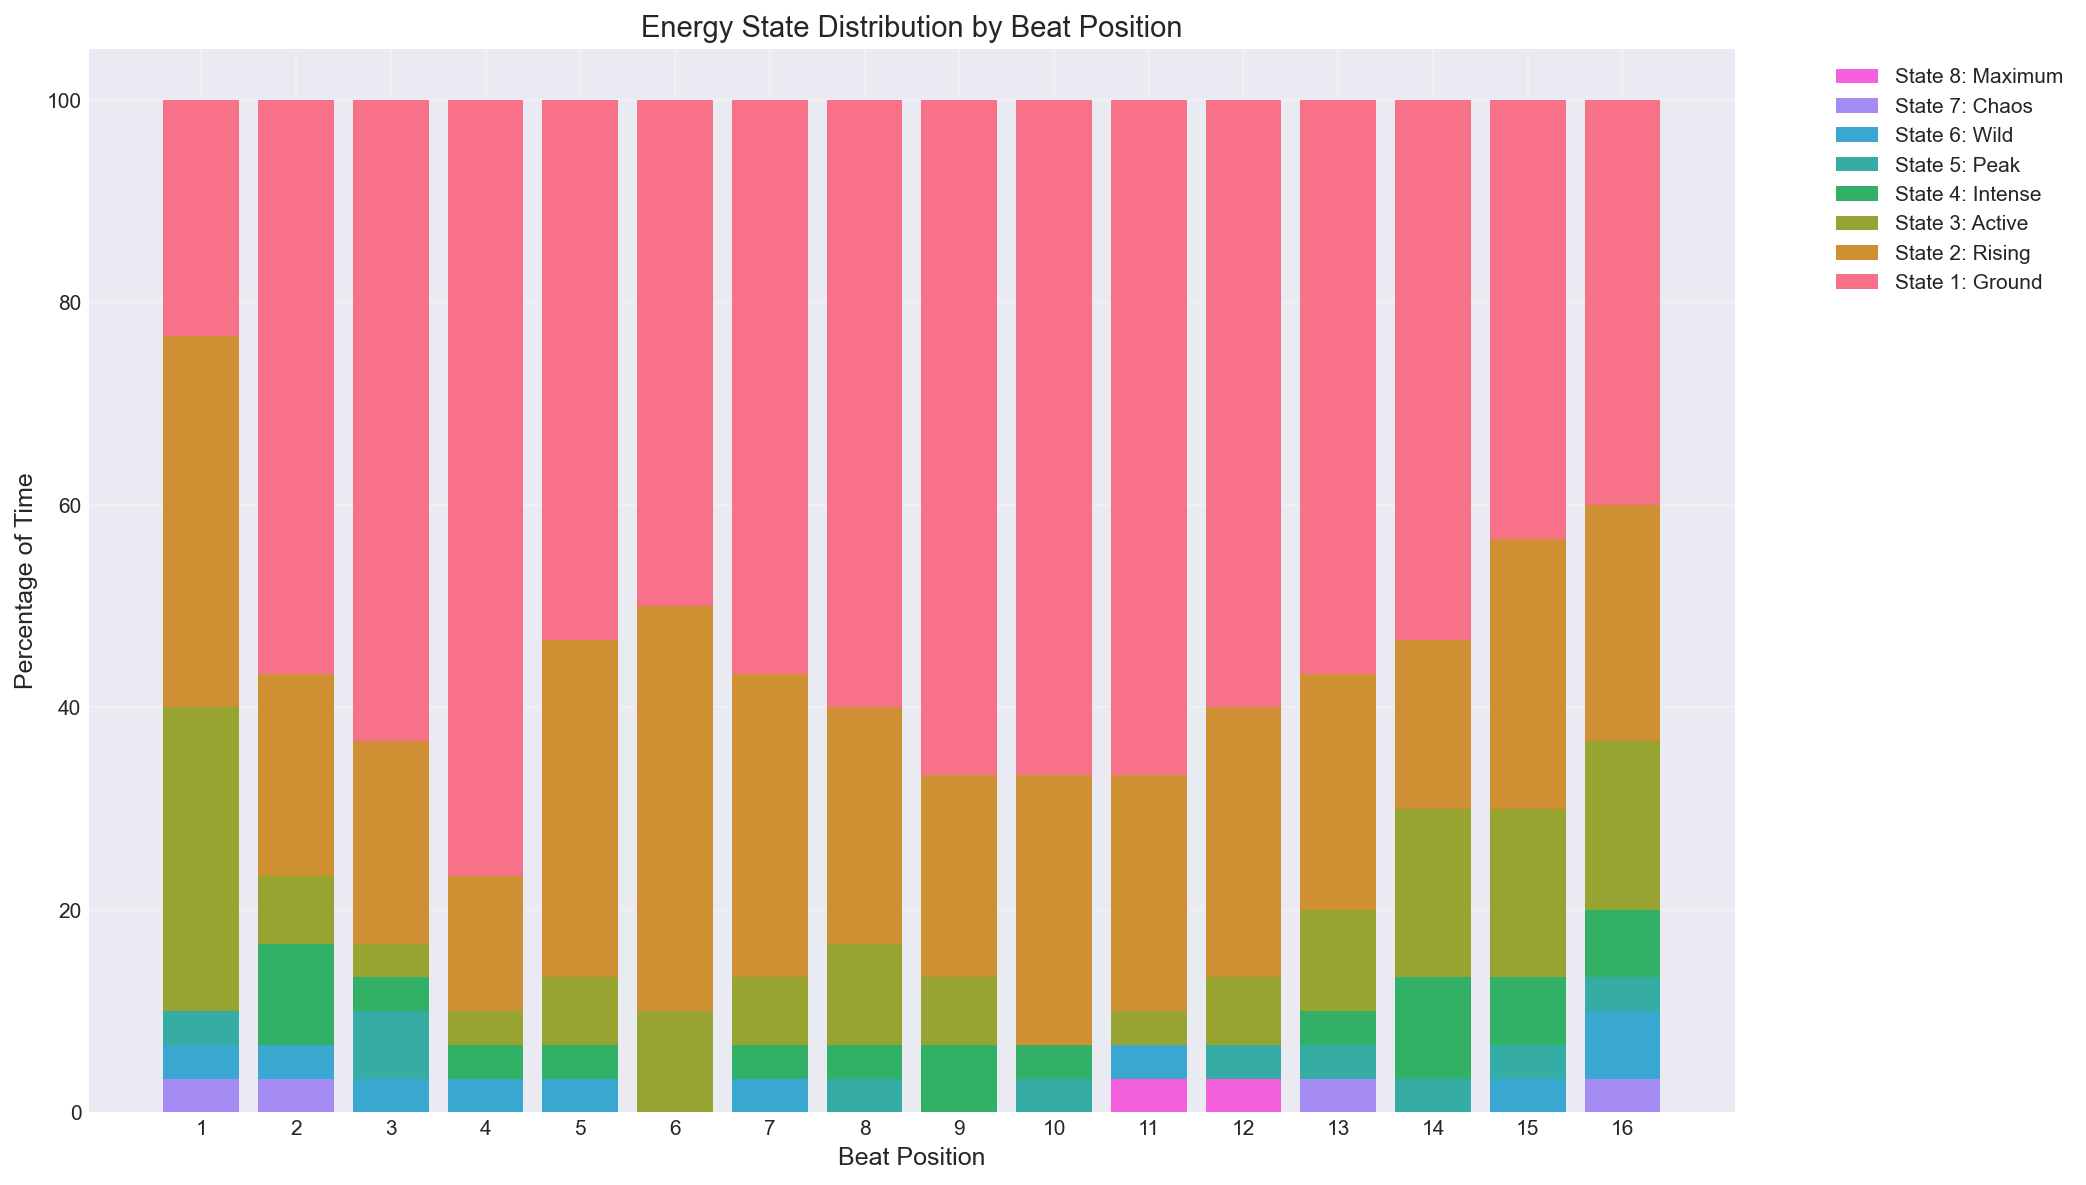
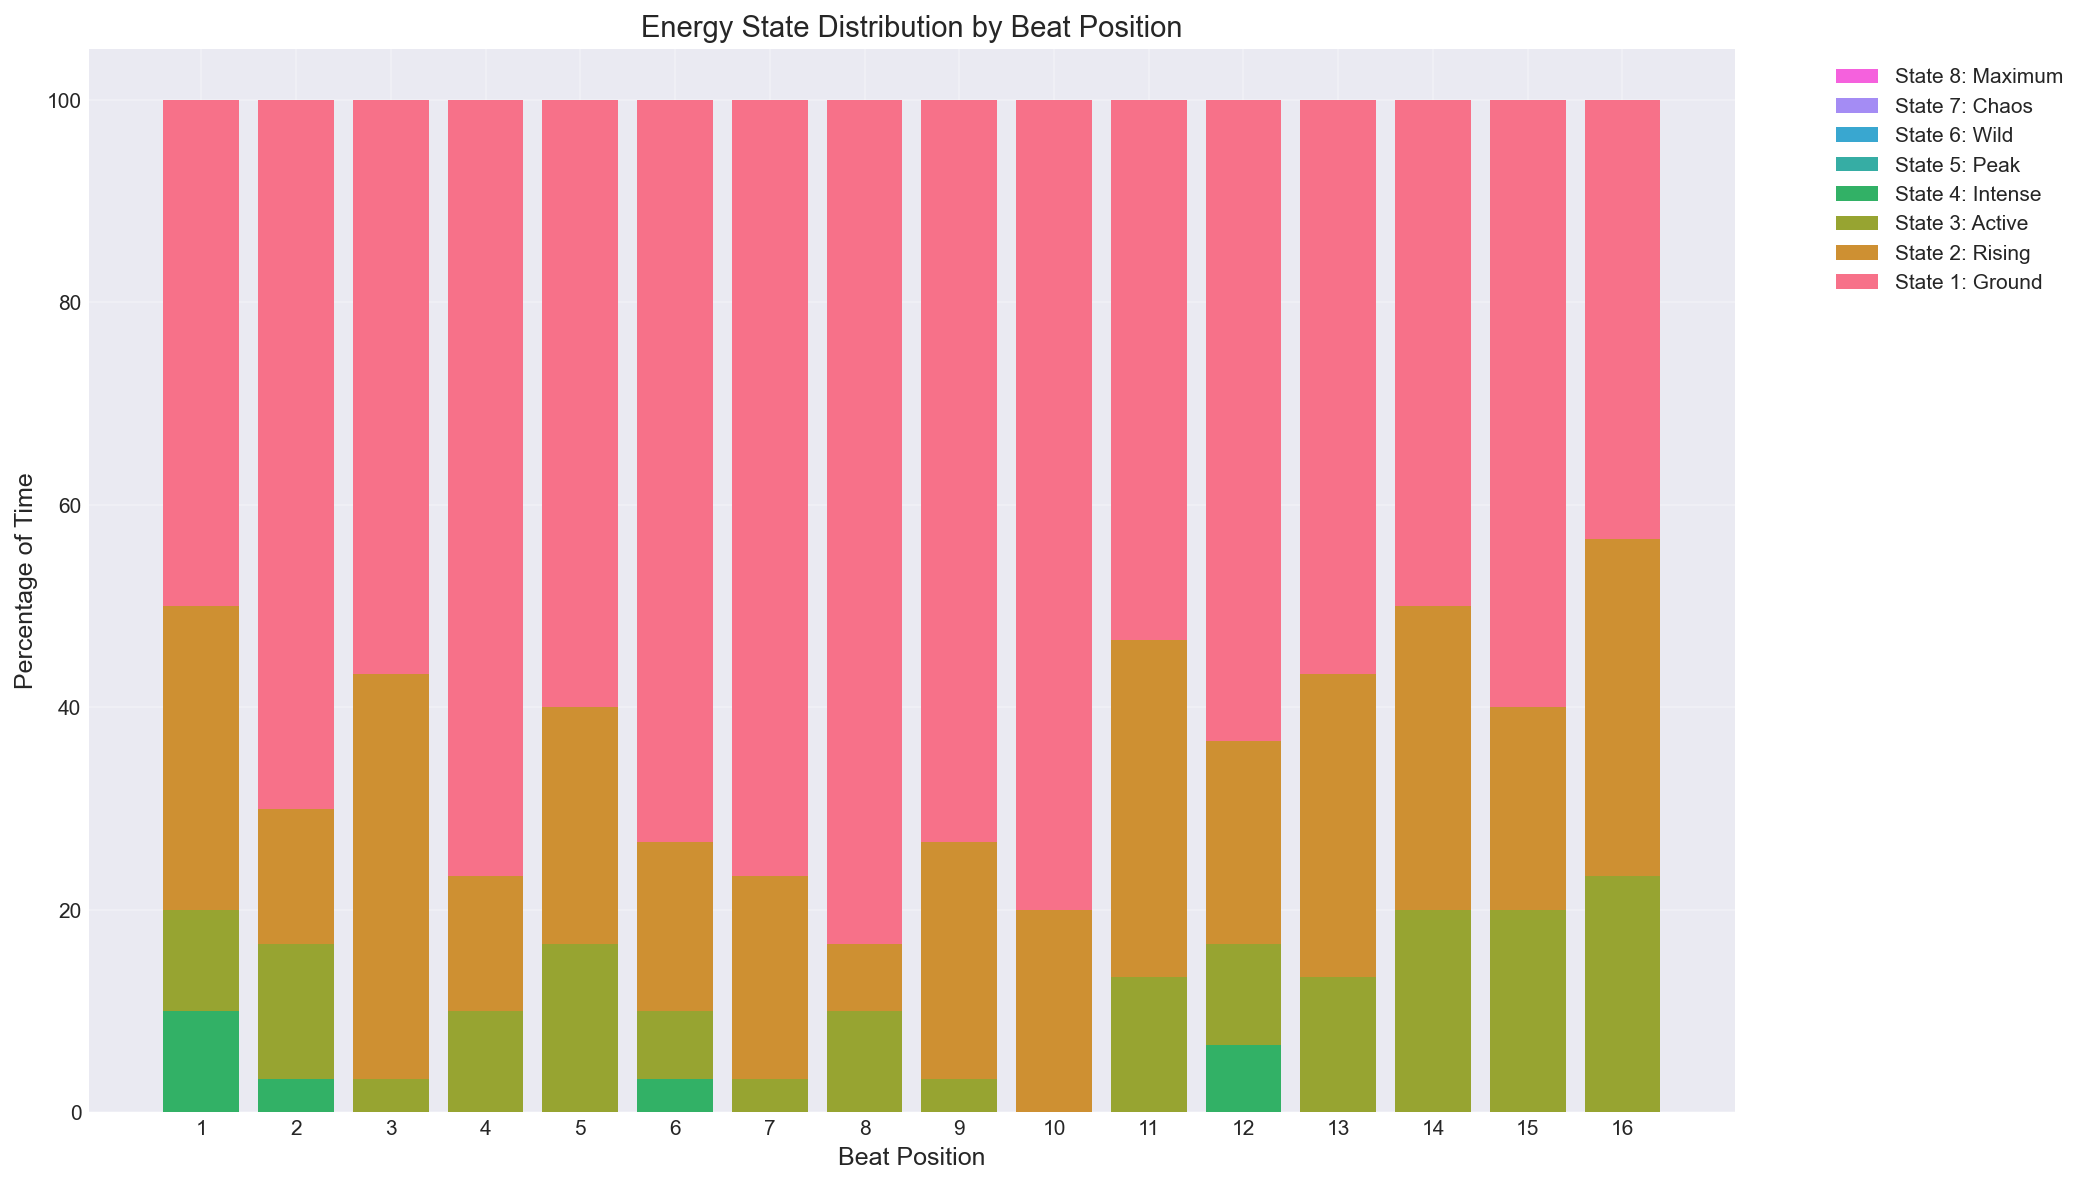
Update blog post 009 with new simulation data using integer-based config
- Updated state distribution stats (59.9% Ground state)
- New transition matrix visualization with normalized integers
- Updated beat distribution analysis
- Revised drum distribution (very hi-hat limited)
- Added insights about integer-based configuration

🤖 Generated with [Claude Code](https://claude.ai/code)

diff --git a/app/posts/0009.md b/app/posts/0009.md
@@ -3,20 +3,24 @@ title: Analyzing Generative Drum Pattern Behavior Through Data Science
 date: 2025-09-28
 ---
 
-I've been developing a quantum drum visualizer that uses energy states to generate rhythmic patterns. I'm using data science to verify the system behaves as designed. Here's what I found from analyzing a 60-second simulation.
-
-## State Distribution Analysis
+I've been developing a quantum drum visualizer that uses energy states to generate rhythmic patterns. On the left is a screen shot of the application. On the right is a state transition diagram showing the probabilities of transitioning between different energy states.
 
 <div style="display: flex; align-items: center;">
     <img src="/the-app.png" alt="Quantum Drum Visualizer" style="width: 30%; margin-right: 16px;" />
     <img src="/bohm_transitions.png" alt="State Transitions" style="width: 30%;" />
 </div>
 
-Running a simulation with basic anchor patterns (kick on 1 & 3, snare on 2 & 4), the transition matrix clearly shows higher probabilities for staying in or returning to lower states. The actual distribution confirmed this design:
+## State Distribution Analysis
 
-- **Ground State**: 38.9% of all notes played
-- **Maximum state**: Only 2.9% of the time
-- **258 state transitions** in 60 seconds - over 4 changes per second
+I'm using data science to verify the system behaves as designed. Here's what I found from analyzing a 60-second simulation.
+
+Running a 60-second simulation, the transition matrix clearly shows higher probabilities for staying in or returning to lower states. The actual distribution confirmed this design:
+
+- **Ground State**: 59.9% of all notes played
+- **Rising State**: 17.5% of notes
+- **Active State**: 17.5% of notes
+- **Intense State**: 5.1% of notes
+- **237 state transitions** in 60 seconds - 3.9 changes per second
 
 This gravity toward lower states was intentional - the transition matrix was designed to create this behavior for musical coherence.
 
@@ -26,38 +30,39 @@ This gravity toward lower states was intentional - the transition matrix was des
 
 The beat distribution shows which energy states were active at each beat position throughout the 60-second simulation:
 
-- **Beat 1** shows the most state diversity (only 23% Ground state, significant Rising/Active/Intense presence)
-- **Beats 2-14** are predominantly Ground state (50-77% of the time)
-- **Beats 15-16** show increased state diversity again (40% Ground, with more Rising/Active states)
+- **Beats 1-10** are heavily dominated by Ground state (50-83% of the time)
+- **Beats 11-16** show slightly more diversity but still Ground state dominant (43-60%)
+- **Beat 16** shows the most state diversity (43% Ground, more Rising/Active presence)
 
-The pattern shows that the system spent most of its time in Ground state across most beat positions, which aligns with the overall 38.9% Ground state distribution and the gravity toward lower states in the transition matrix.
+The pattern shows that the system spent most of its time in Ground state across all beat positions, which aligns with the overall 59.9% Ground state distribution and the strong gravity toward lower states in the transition matrix.
 
 ## Drum Distribution Analysis
 
 The drum distribution from the 60-second simulation:
-- **Kick**: 67 hits (38.3%)
-- **Snare**: 72 hits (41.1%)
-- **All hi-hats combined**: 21.5%
+- **Kick**: 67 hits (48.9%)
+- **Snare**: 65 hits (47.4%)
+- **All hi-hats combined**: 3.6%
 
-The kick and snare dominate because they were set as anchor notes (velocity 200) on beats 1, 3, 5, 7, 9, 11, 13, 15 (kick) and 2, 6, 10, 14 (snare). These anchor notes remain constant across all energy states, which explains their high percentage in the final output.
+The kick and snare completely dominate the output, with very minimal hi-hat activity. This reflects the strong tendency to stay in Ground state, where the pattern is simpler and focused on the fundamental kick-snare rhythm.
 
 ## Transition Behavior Verification
 
 The transition matrix data confirmed the programmed behavior:
-- States 1→2 and 2→1 were the most common (as expected from the matrix)
-- Multi-state jumps were rare due to low probabilities in non-adjacent cells
-- The ending matrix (3x boost for upward transitions) successfully created climactic endings
-- State 7 frequently returned to State 1 due to the high probability in that cell
+- States 1→2 and 2→1 were the most common transitions (76 and 75 times respectively)
+- States 1→3 and 3→1 were also frequent (28 and 27 times)
+- The system rarely reached higher states (only reached State 4 seven times)
+- Multi-state jumps were extremely rare due to zero probabilities in non-adjacent cells
+- The ending matrix (3x boost for upward transitions) helps create variation
 
 ## Development Insights
 
-The data analysis validated the design but revealed tuning opportunities:
+The data analysis validated the design and the new configuration format makes tuning easier:
 
-1. **Ground state duration** - Could reduce self-transition probability for more variety
-2. **Middle state distinctiveness** - States 3-5 could use more unique characteristics
-3. **Anchor attraction** - The 2x multiplier works well but could be state-dependent
-4. **Ending boost** - The 3x multiplier creates good climaxes
+1. **Ground state dominance** - The integer matrix (9,3,1,0,0,0,0,0) creates very strong gravity to Ground
+2. **Limited state exploration** - Higher states (5-8) were never reached in this simulation
+3. **Easy tuning** - The integer-based config (0-9 values) makes adjustments intuitive
+4. **Ending boost** - The 3x multiplier still provides upward movement potential
 
 ## Next Steps
 
-The system behaves as designed - the Markov chain creates the intended musical dynamics. Now I can tune parameters based on aesthetic preferences rather than fixing broken behavior. The data science approach confirms the core mechanism is sound.
+The system behaves as designed - the Markov chain creates the intended musical dynamics. The new integer-based configuration in `transition_matrix_config.json` makes it easy to experiment with different probability distributions. Simply adjust the 0-9 values in each row to change how states transition. The data science approach confirms the core mechanism is sound and ready for creative exploration.
